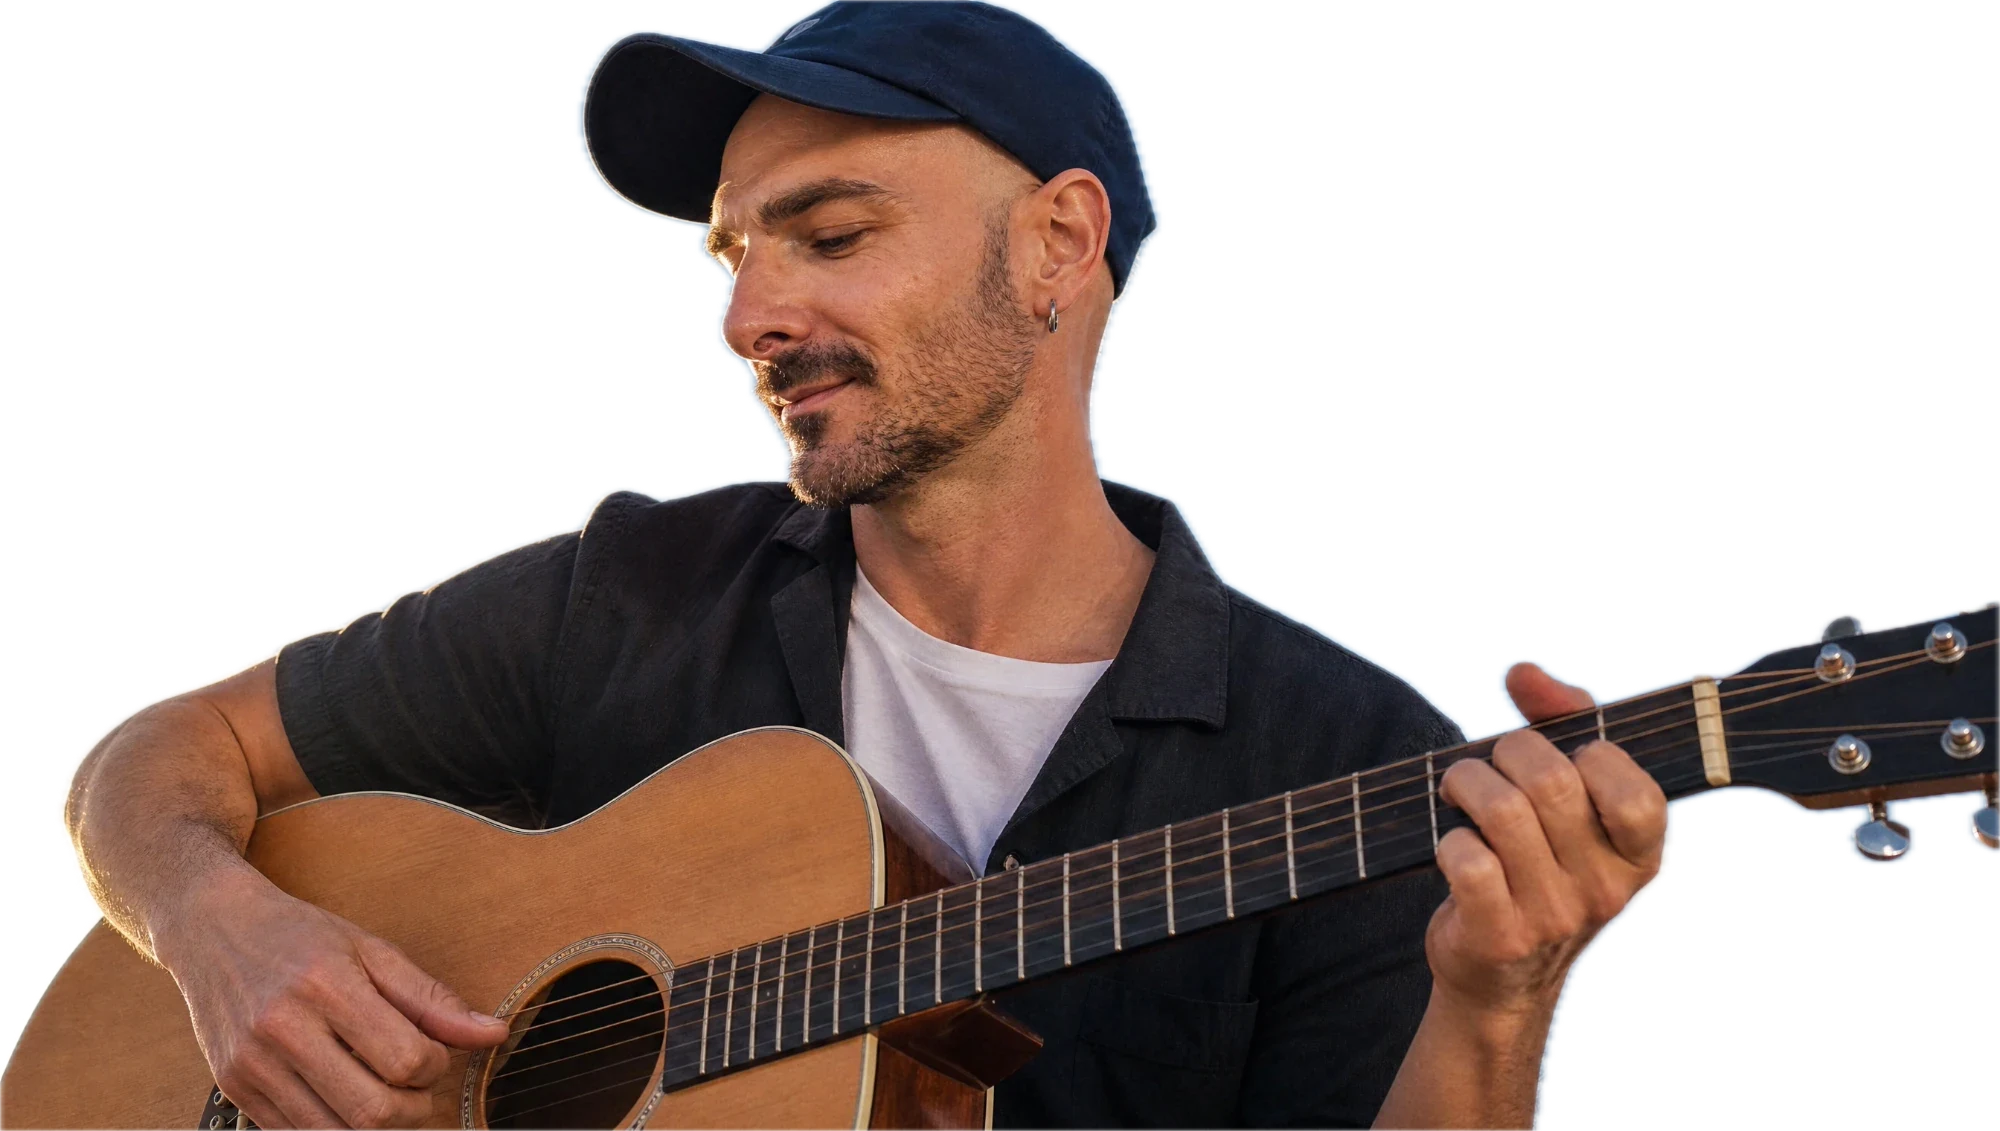
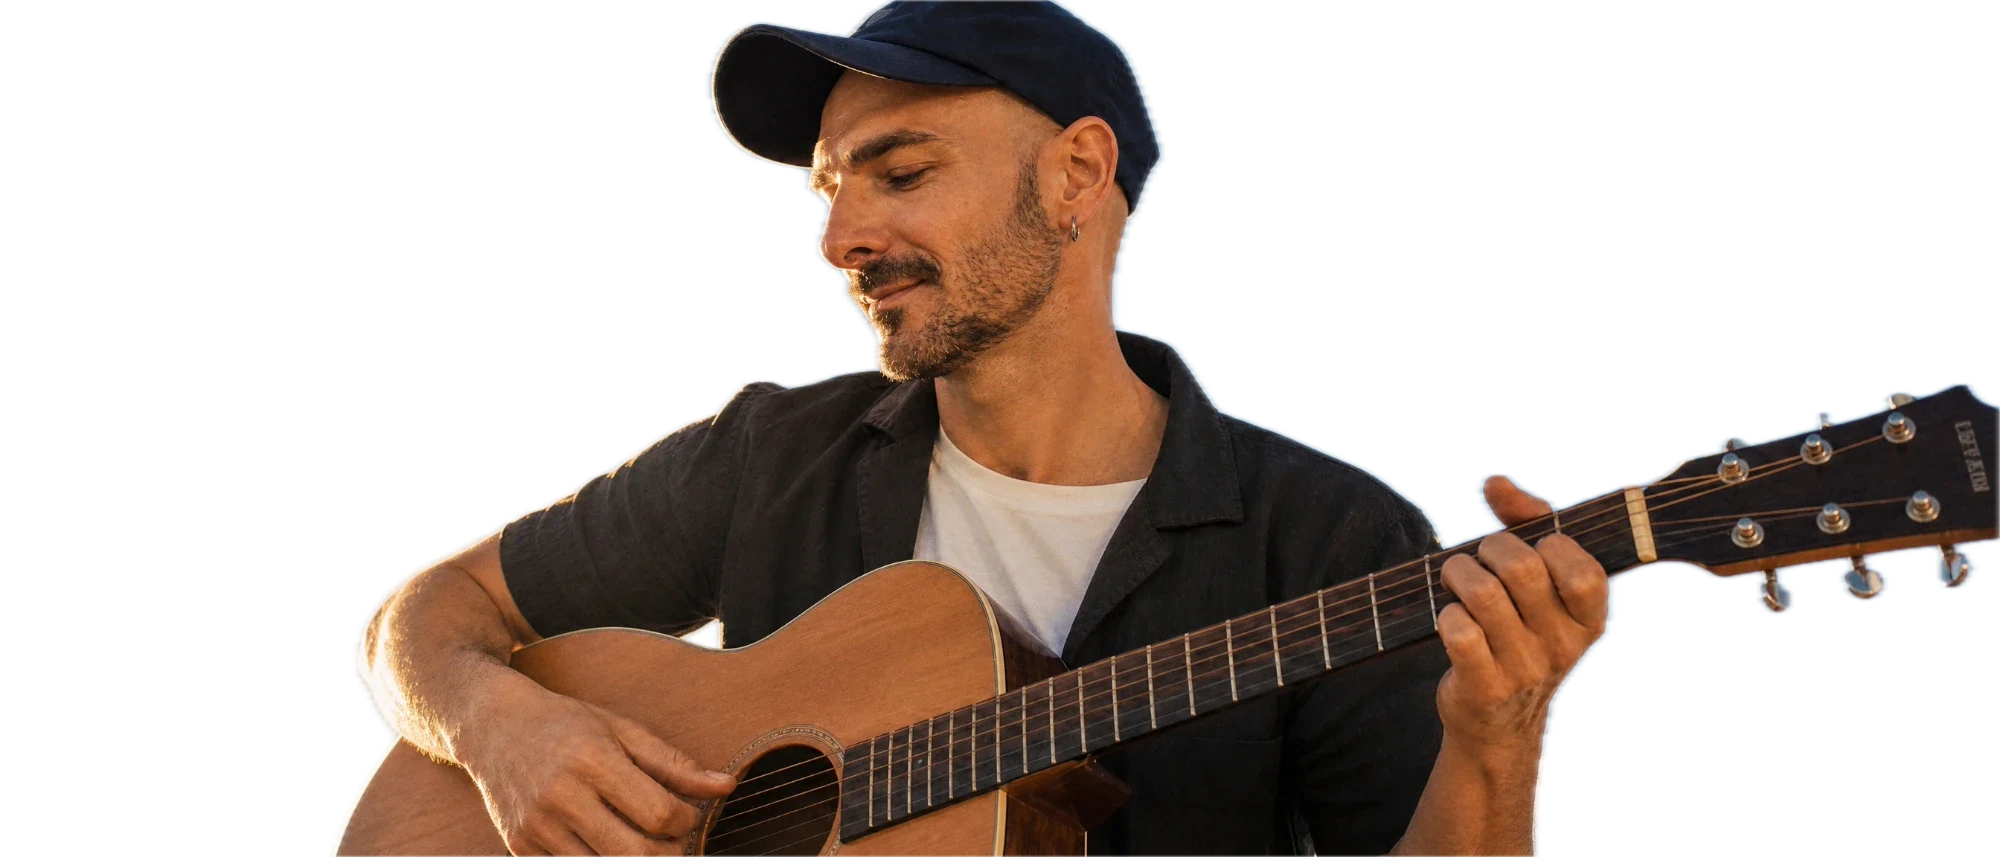
Andrés: foto con el cielo extendido, sin relleno en espejo

diff --git a/andres/index.html b/andres/index.html
@@ -35,17 +35,12 @@ body { margin: 0; background: var(--paper); color: var(--ink); font-family: var(
 .hero { position: relative; height: 60vh; min-height: 380px; overflow: hidden; background: var(--sky); color: #fff; }
 .hero__layer {
   position: absolute; inset: 0; width: 100%; height: 100%; max-width: 100%;
-  object-fit: cover; object-position: 46% 0%;
+  object-fit: cover; object-position: 47% 0%;
 }
-.hero { --shift: 14%; }
 .hero__bg { z-index: 0; }
 .hero__fg { z-index: 2; }
-/* ponytail: la foto se desplaza a la derecha para que ANDRÉS quepa entero; el hueco izquierdo se rellena con la misma foto en espejo. Si se nota la costura, outpaint del cielo en Magnific */
-.hero__bg, .hero__fg { left: var(--shift); }
-.hero__mirror { z-index: 0; left: calc(var(--shift) - 100%); }
 /* parallax: --p = px scrolled inside the hero (JS). Photo layers move together so the cutout never separates from its own background */
 .hero__bg, .hero__fg { transform: translate3d(0, calc(var(--p, 0) * 0.25px), 0); will-change: transform; }
-.hero__mirror { transform: translate3d(0, calc(var(--p, 0) * 0.25px), 0) scaleX(-1); will-change: transform; }
 .hero__name { transform: translate3d(0, calc(var(--p, 0) * 0.55px), 0); will-change: transform; }
 .hero__name {
   position: absolute; z-index: 1; left: 0; right: 0; top: 13%;
@@ -63,8 +58,6 @@ body { margin: 0; background: var(--paper); color: var(--ink); font-family: var(
 
 @media (max-width: 640px) {
   /* ponytail: en móvil la cara llena el ancho y no hay cielo sobre la gorra; el nombre pasa delante */
-  .hero { --shift: 0%; }
-  .hero__mirror { display: none; }
   .hero__name { display: block; text-align: center; padding-inline: 0; z-index: 3; font-size: 23vw; line-height: 0.8; top: auto; bottom: 74px; text-shadow: 0 2px 18px rgba(0, 0, 0, 0.35); }
   .hero__name span { display: block; }
 }
@@ -125,10 +118,9 @@ body { margin: 0; background: var(--paper); color: var(--ink); font-family: var(
 </style>
 
 <header class="hero">
-  <img class="hero__layer hero__mirror" src="hero.webp" alt="" width="2000" height="1131">
-  <img class="hero__layer hero__bg" src="hero.webp" alt="" width="2000" height="1131">
+  <img class="hero__layer hero__bg" src="hero.webp" alt="" width="2000" height="857">
   <h1 class="hero__name"><span>Andrés </span><span>Pérez</span></h1>
-  <img class="hero__layer hero__fg" src="cutout.webp" alt="Andrés Pérez tocando la guitarra acústica" width="2000" height="1131">
+  <img class="hero__layer hero__fg" src="cutout.webp" alt="Andrés Pérez tocando la guitarra acústica" width="2000" height="857">
   <nav class="hero__bar wrap" aria-label="Principal">
     <span>Live music · Barcelona</span>
     <span class="hero__links"><a href="#servicios">Servicios</a><a href="#who">Who I am</a></span>
